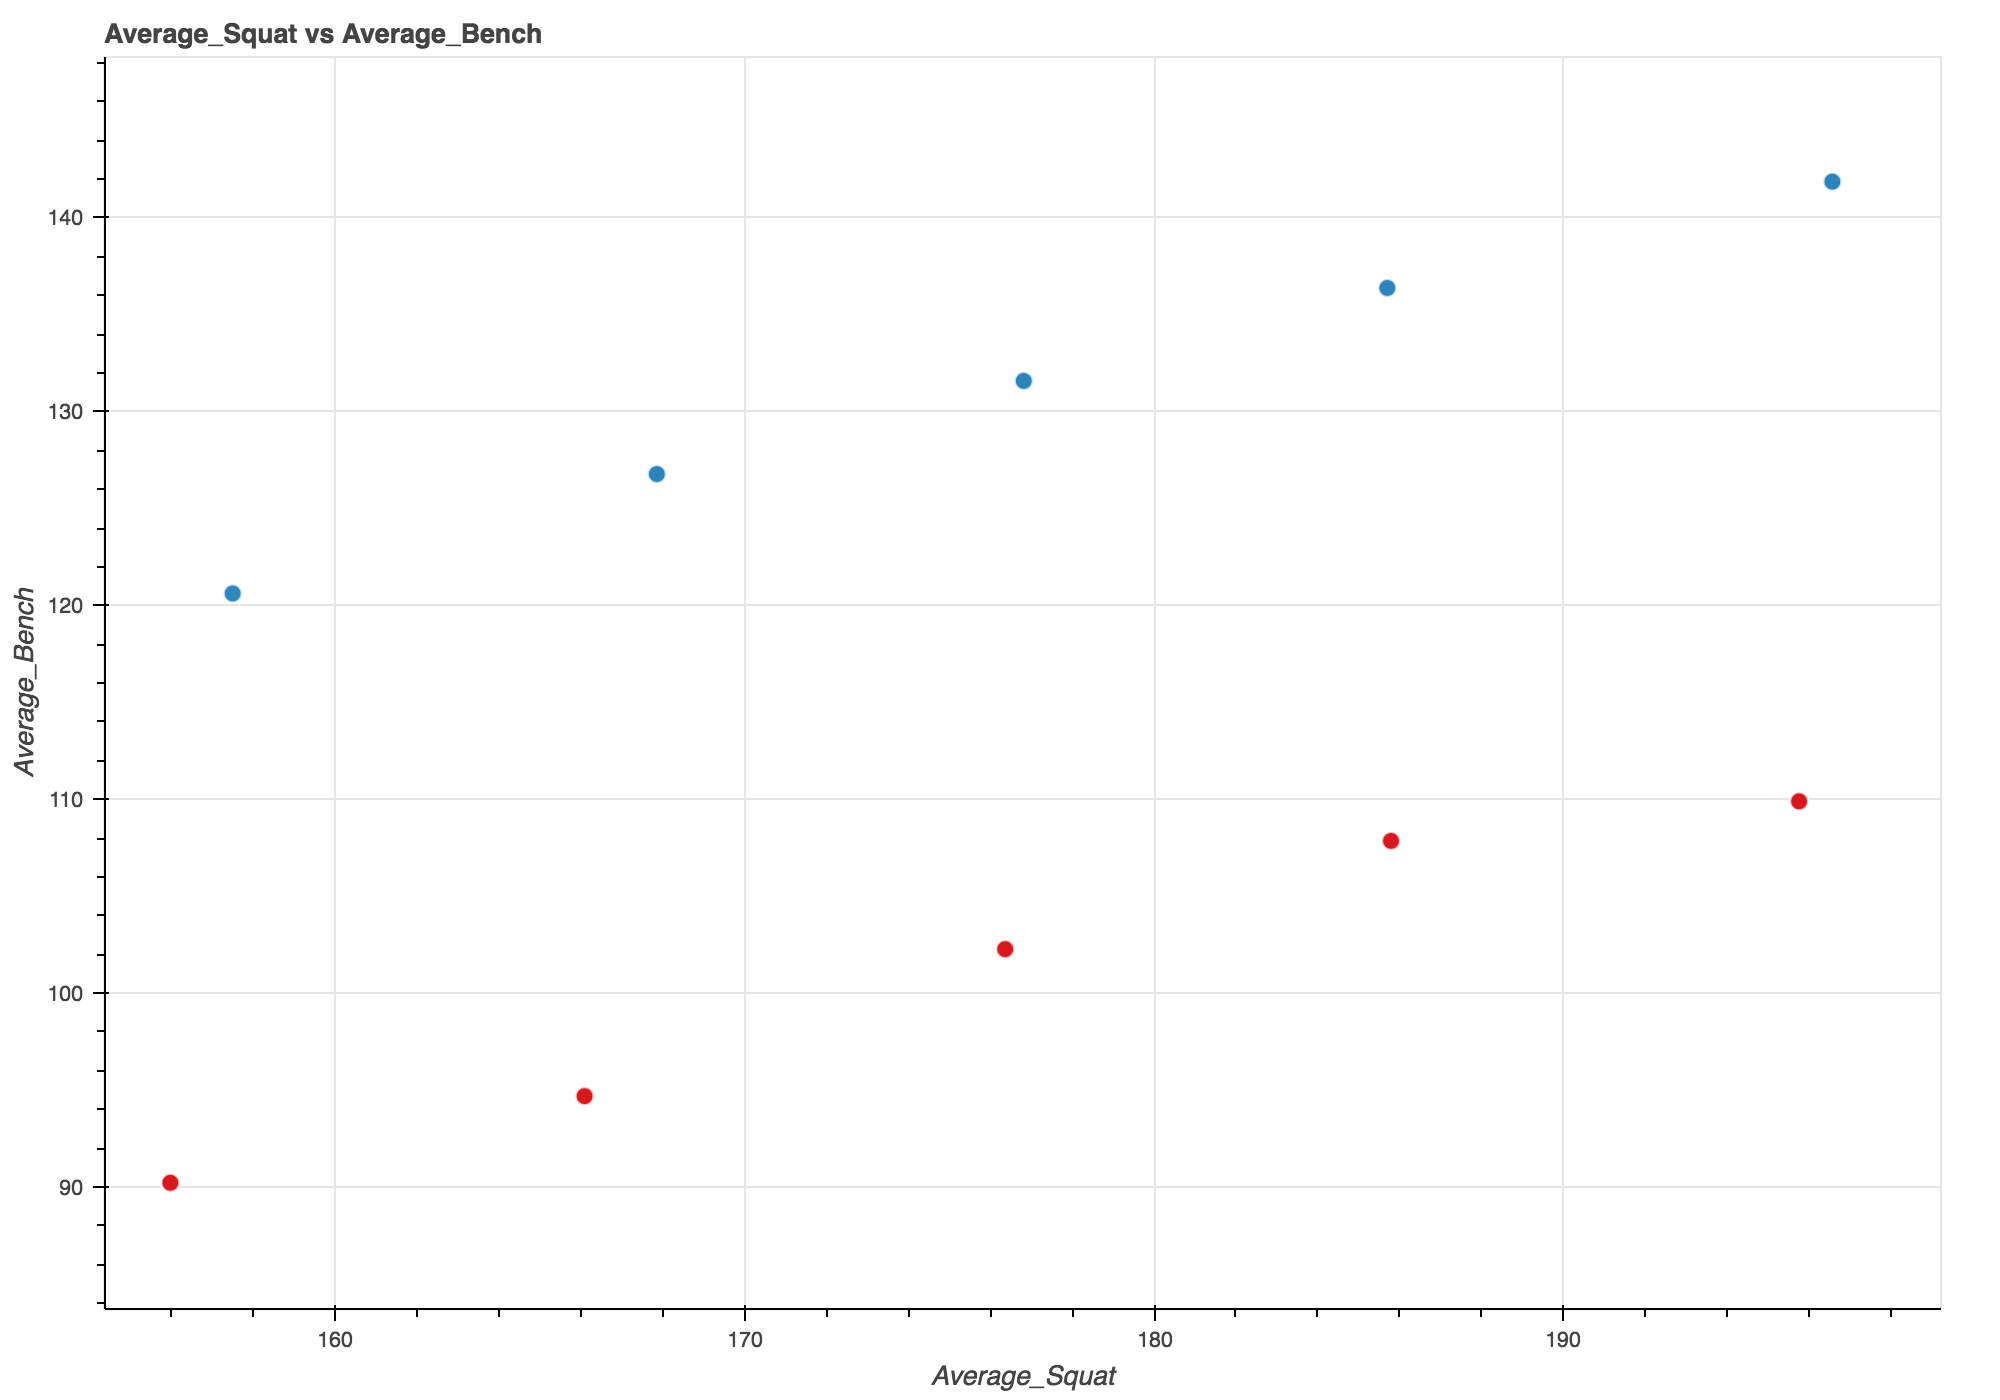
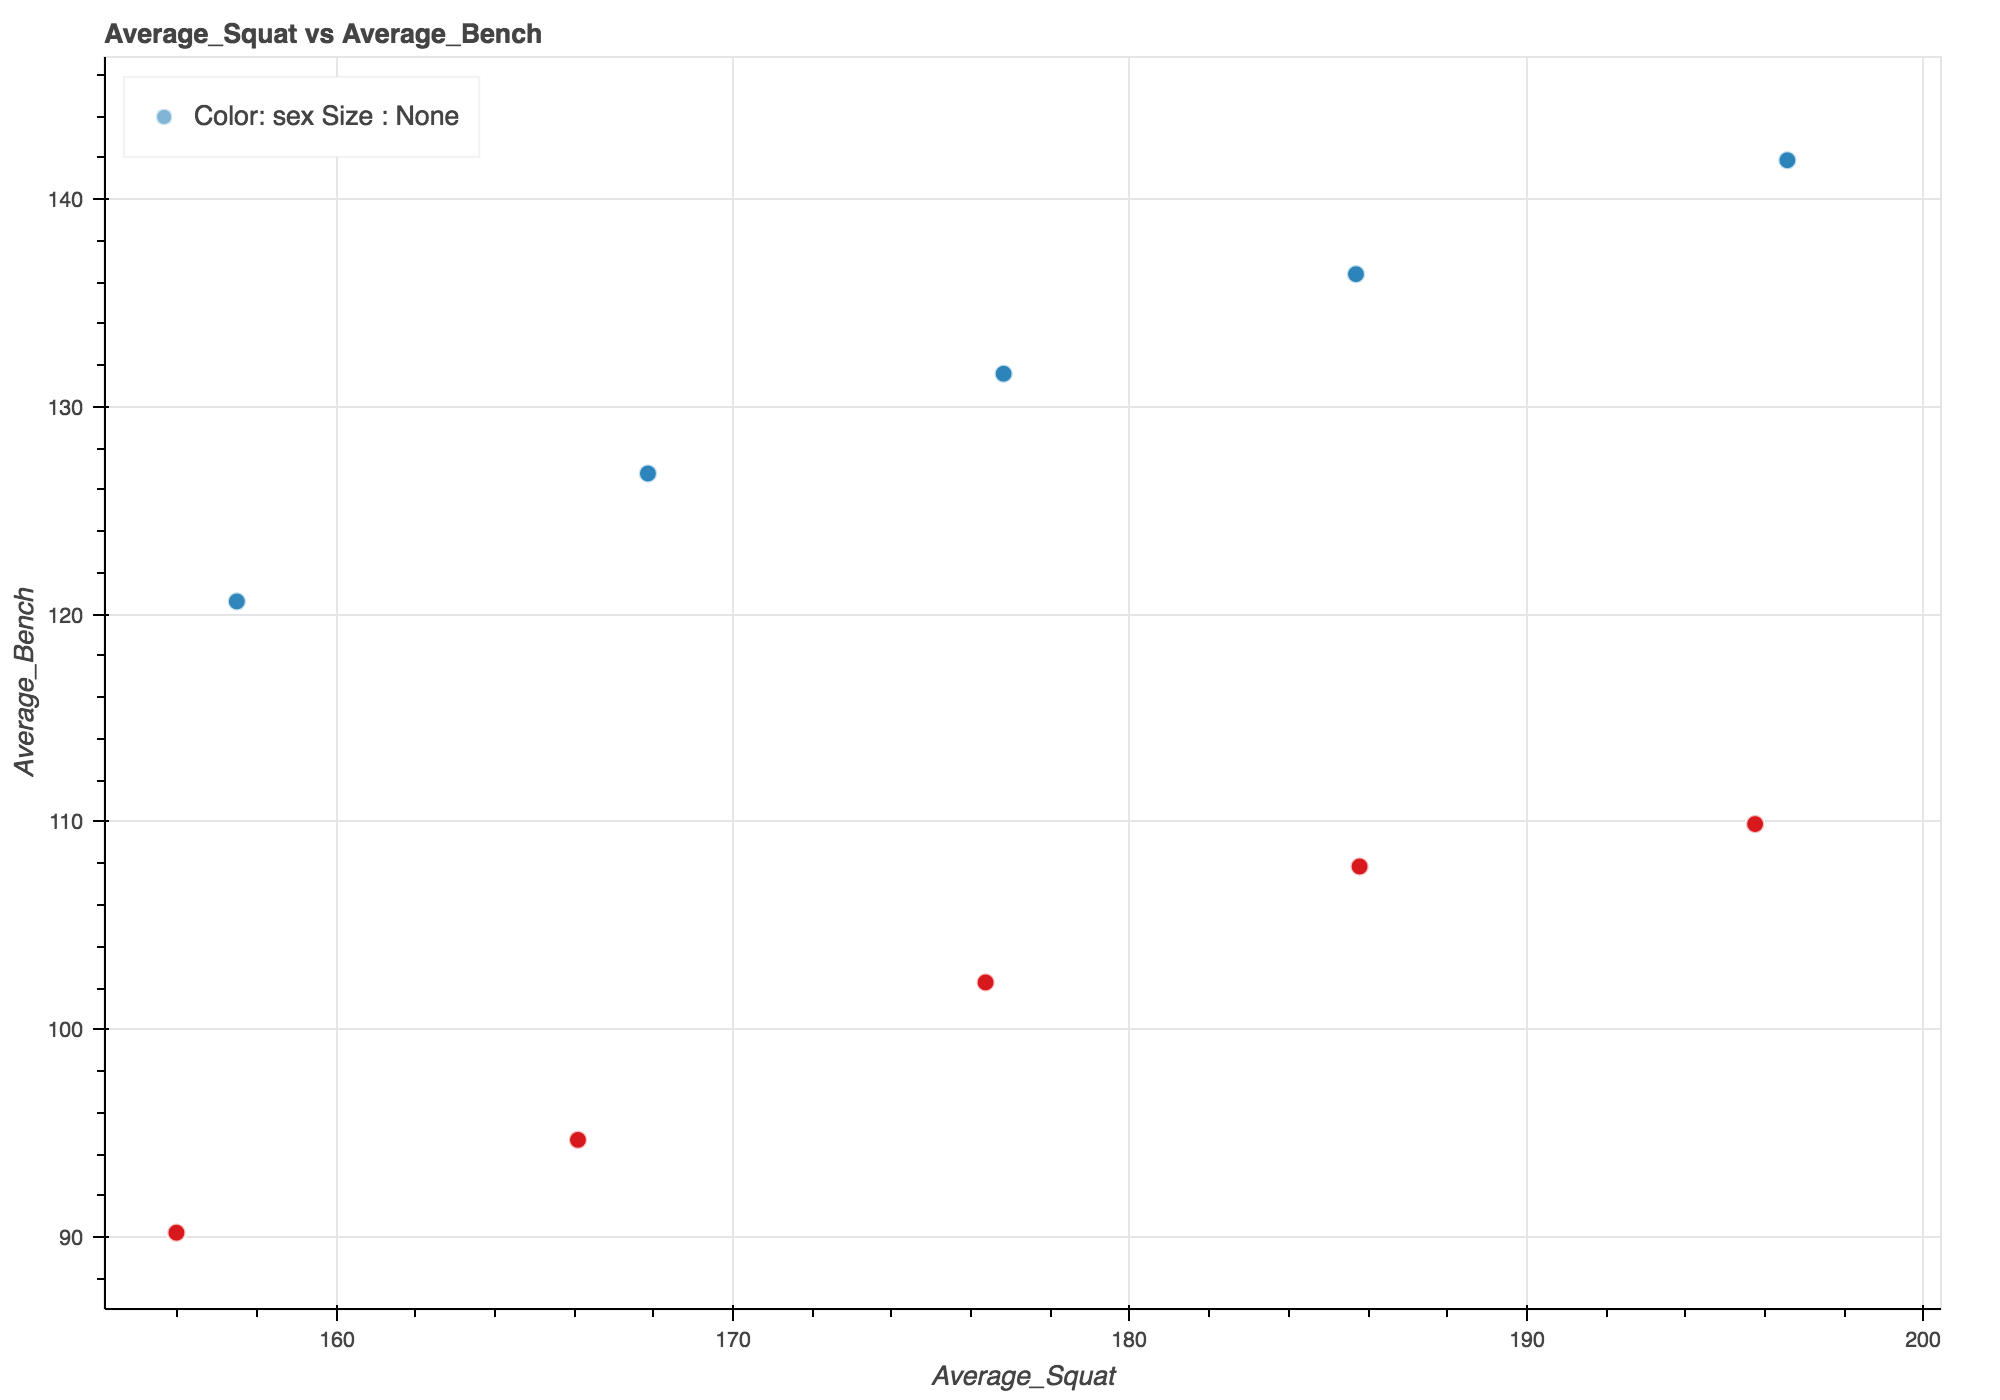
readme

diff --git a/ipf_graphs.py b/ipf_graphs.py
@@ -95,10 +95,11 @@ def create_figure():
             c = [COLORS[xx] for xx in groups.codes]
 
     source = ColumnDataSource(df[['lifter','year','team','body_weight']])
+    Legend = '''Color: {} Size : {}'''.format(color.value,size.value)
     p.circle(x=xs, y=ys, color=c, size=sz, line_color="white", alpha=0.6,
-                                    hover_color='white', hover_alpha=0.5, source=source,legend='hellow')
-    # p.add_layout(legend, 'right')
-    p.legend.location = "top_right"
+                                    hover_color='white', hover_alpha=0.5, source=source,
+                                    legend=Legend)
+    p.legend.location = "top_left"
 
     return p
 

diff --git a/README.md b/README.md
@@ -1,3 +1,6 @@
 # IPF_Analysis
 Looking at the differences between men and women in the IPF.
 It looks like there is a difference.
+
+To run enter: `bokeh serve --show ipf_graphs.py` into the command line within
+the directory that `ipf_graphs.py` is located.
